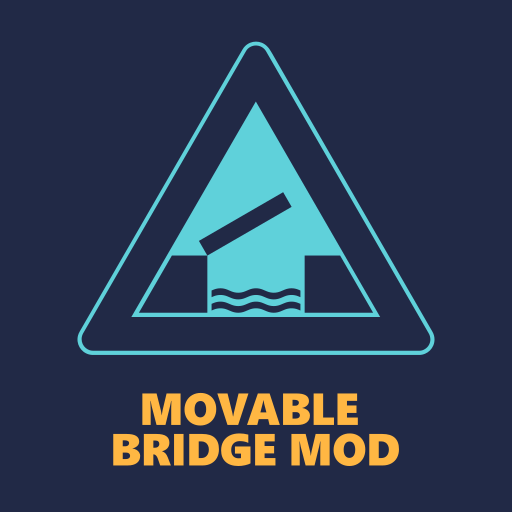
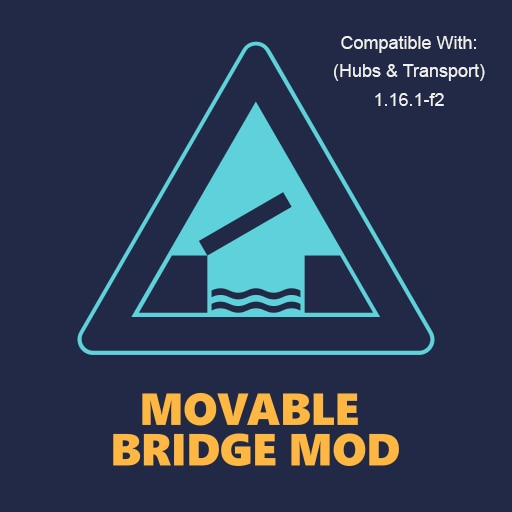
Fix for 1.16.1-f2

diff --git a/Patches/CitizenGetPathTargetPositionPatch.cs b/Patches/CitizenGetPathTargetPositionPatch.cs
@@ -8,11 +8,14 @@ using UnityEngine;
 
 namespace MovableBridge {
     [HarmonyPatch(typeof(CitizenAI), "GetPathTargetPosition")]
-    public static class CitizenGetPathTargetPositionPatch {
-        static IEnumerable<CodeInstruction> Transpiler(IEnumerable<CodeInstruction> instructions, ILGenerator il) {
-            var checkSegmentChangeMethodInfo =
-                typeof(CitizenAI).GetMethod("CheckSegmentChange", BindingFlags.NonPublic | BindingFlags.Instance);
-            if (checkSegmentChangeMethodInfo == null) {
+    public static class CitizenGetPathTargetPositionPatch
+    {
+        static IEnumerable<CodeInstruction> Transpiler(IEnumerable<CodeInstruction> instructions, ILGenerator il)
+        {
+            var checkSegmentChangeMethodInfo = typeof(CitizenAI).GetMethod("CheckSegmentChange", BindingFlags.NonPublic | BindingFlags.Instance);
+
+            if (checkSegmentChangeMethodInfo == null)
+            {
                 Debug.Log("Getting checkSegmentChangeMethodInfo failed...");
                 return instructions;
             }
@@ -40,11 +43,21 @@ namespace MovableBridge {
                 return instructions;
             }
 
+            Label stopAtRedPedestrianLightLabel = il.DefineLabel();
+
             var codes = new List<CodeInstruction>(instructions);
 
-            Label stopAtRedPedestrianLightLabel = il.DefineLabel();
+            //string msg = "MoveableBridge citizens:\n";
+            //int c = 0;
+            //foreach (var code in codes)
+            //{
+            //    msg += $"{c++}: {code.opcode} {code.operand}\n";
+            //}
+            //Debug.Log($"stopAtRedPedestrianLightLabel:{stopAtRedPedestrianLightLabel}\n{msg}");
+
             var stopAtRedPedestrianLightLabelFound = false;
-            for (int i = 0; i < codes.Count; i++) {
+            for (int i = 0; i < codes.Count; i++)
+            {
                 if (codes[i].opcode == OpCodes.Callvirt && codes[i].operand == checkSegmentChangeMethodInfo) {
                     if (codes[i + 1].opcode == OpCodes.Brtrue && codes[i + 2].opcode == OpCodes.Call) {
                         codes[i + 2].labels.Add(stopAtRedPedestrianLightLabel);
@@ -52,13 +65,16 @@ namespace MovableBridge {
                     }
                 }
             }
-            if (!stopAtRedPedestrianLightLabelFound) {
+            if (!stopAtRedPedestrianLightLabelFound)
+            {
                 Debug.Log("stopAtRedPedestrianLightLabel not found!");
                 return codes;
             }
 
-            for (int i = 0; i < codes.Count; i++) {
-                if (codes[i].opcode == OpCodes.Call && codes[i].operand == hookMethodInfo) {
+            for (int i = 0; i < codes.Count; i++)
+            {
+                if (codes[i].opcode == OpCodes.Call && codes[i].operand == hookMethodInfo)
+                {
                     Debug.Log("transpile hook found");
 
                     codes.InsertRange(i + 1, GetCodeInstructions(stopAtRedPedestrianLightLabel));
@@ -69,7 +85,8 @@ namespace MovableBridge {
             return codes;
         }
 
-        static IEnumerable<CodeInstruction> GetCodeInstructions(Label stopAtRedPedestrianLightLabel) {
+        static IEnumerable<CodeInstruction> GetCodeInstructions(Label stopAtRedPedestrianLightLabel)
+        {
             var m_segmentFieldInfo = typeof(PathUnit.Position).GetField("m_segment", BindingFlags.Public | BindingFlags.Instance);
             if (m_segmentFieldInfo == null) {
                 Debug.Log("Getting m_segmentFieldInfo failed...");
@@ -100,8 +117,8 @@ namespace MovableBridge {
             yield return new CodeInstruction(OpCodes.Ldloca_S, 4);
             yield return new CodeInstruction(OpCodes.Ldfld, m_offsetFieldInfo);
 
-            //offset (nextOffset)
-            yield return new CodeInstruction(OpCodes.Ldloc, 48);
+            //offset (nextOffset) (original mod by boformer used location 48, but since 1.15.1 it seems to have changed to 50)
+            yield return new CodeInstruction(OpCodes.Ldloc, 50);
 
             //MustStopAtMovableBridge(position.m_segment, position6.m_segment, position.m_offset, offset)
             yield return new CodeInstruction(OpCodes.Call, mustStopAtMovableBridgeMethodInfo);
@@ -110,21 +127,26 @@ namespace MovableBridge {
             yield return new CodeInstruction(OpCodes.Brtrue, stopAtRedPedestrianLightLabel);
         }
 
-        private static bool MustStopAtMovableBridge(ushort prevSegmentID, ushort nextSegmentID, byte prevOffset, byte nextOffset) {
+        private static bool MustStopAtMovableBridge(ushort prevSegmentID, ushort nextSegmentID, byte prevOffset, byte nextOffset)
+        {
             var netManager = NetManager.instance;
 
             ushort prevTargetNodeId = (prevOffset >= 128) ? netManager.m_segments.m_buffer[prevSegmentID].m_endNode : netManager.m_segments.m_buffer[prevSegmentID].m_startNode;
             ushort nextSourceNodeId = (nextOffset >= 128) ? netManager.m_segments.m_buffer[nextSegmentID].m_endNode : netManager.m_segments.m_buffer[nextSegmentID].m_startNode;
 
-            if (prevTargetNodeId == nextSourceNodeId) {
+            if (prevTargetNodeId == nextSourceNodeId)
+            {
                 NetNode.Flags flags = netManager.m_nodes.m_buffer[prevTargetNodeId].m_flags;
-                if (flags.IsFlagSet(NetNode.Flags.CustomTrafficLights)) {
+                if (flags.IsFlagSet(NetNode.Flags.CustomTrafficLights))
+                {
                     var previousSegmentAI = netManager.m_segments.m_buffer[prevSegmentID].Info.m_netAI;
-                    if (!(previousSegmentAI is MovableBridgeRoadAI)) {
+                    if (!(previousSegmentAI is MovableBridgeRoadAI))
+                    {
                         return false;
                     }
                     var nextSegmentAI = netManager.m_segments.m_buffer[nextSegmentID].Info.m_netAI;
-                    if (!(nextSegmentAI is MovableBridgeRoadAI)) {
+                    if (!(nextSegmentAI is MovableBridgeRoadAI))
+                    {
                         return false;
                     }
 
@@ -133,7 +155,8 @@ namespace MovableBridge {
                     RoadBaseAI.GetTrafficLightState(prevTargetNodeId, ref netManager.m_segments.m_buffer[prevSegmentID], currentFrameIndex - num6n, out RoadBaseAI.TrafficLightState vehicleLightState, out RoadBaseAI.TrafficLightState pedestrianLightState, out bool vehicles, out bool pedestrians);
 
                     //Debug.Log($"CheckSegmentChange on bridge! state: ${vehicleLightState}");
-                    if (vehicleLightState == RoadBaseAI.TrafficLightState.Red) {
+                    if (vehicleLightState == RoadBaseAI.TrafficLightState.Red)
+                    {
                         return true;
                     }
                 }
